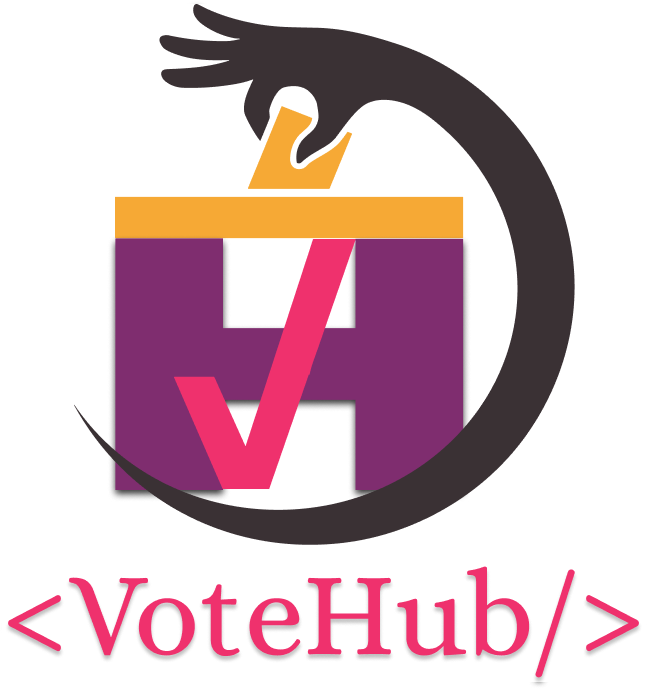
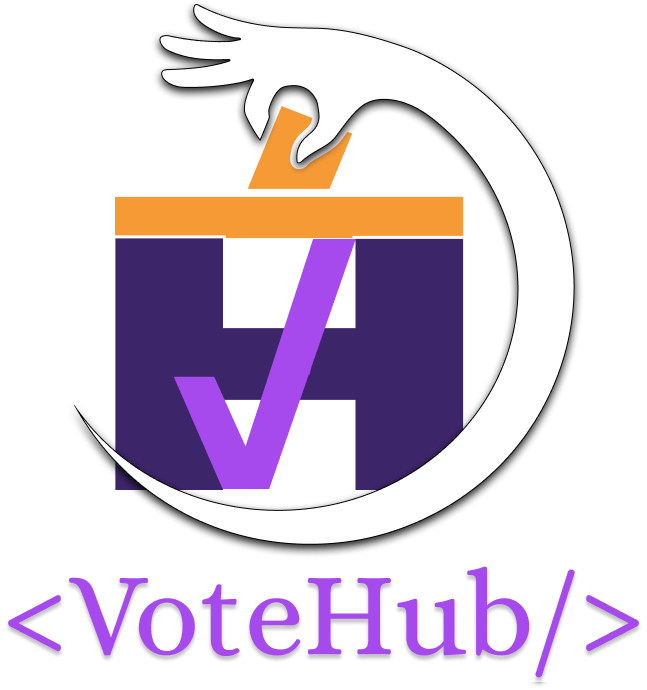
Theme Color Changed

diff --git a/tailwind.config.ts b/tailwind.config.ts
@@ -16,11 +16,11 @@ const config: Config = {
       colors: {
         transparent: 'transparent',
         current: 'currentColor',
-        'primary1':'#7F2D6F',
-        'primary1Trans': 'rgba(127,45,111,0.8)',
-        'primary2':'#EF316D',
+        'primary1':'#3D256A',
+        'primary1Trans': 'rgba(31,11,68,0.8)',
+        'primary2':'#A64AEE',
         'primary3':'#F6A935',
-        'primary4':'#3A3134',
+        'primary4':'#1F0B44',
         'lightBlue': '#E8F2F8',
         'whiteTone': '#F9F9F9',
         'grayToneStroke': '#B8BFCC',
